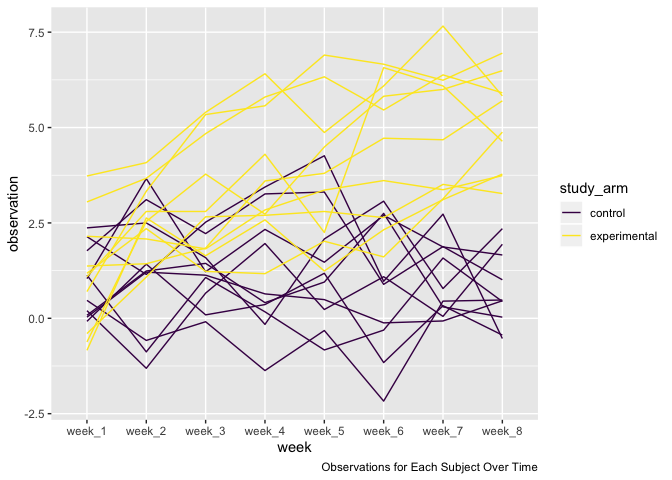
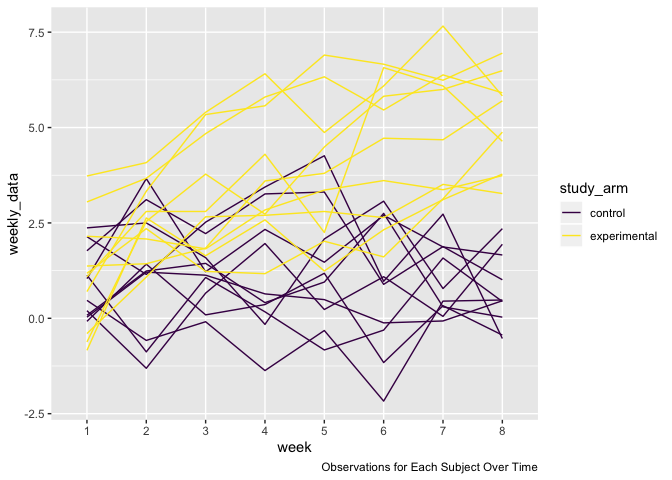
Generated a plot to display association between effect size and power.

diff --git a/p8105_hw5_niz2000.md b/p8105_hw5_niz2000.md
@@ -11,14 +11,14 @@ Nora Zakaria
 library(tidyverse)
 ```
 
-    ## ── Attaching packages ────────────────────────────────────────────────────────────────────── tidyverse 1.2.1 ──
+    ## ── Attaching packages ─────────────────────────────────────── tidyverse 1.2.1 ──
 
     ## ✔ ggplot2 3.2.1     ✔ purrr   0.3.2
     ## ✔ tibble  2.1.3     ✔ dplyr   0.8.3
     ## ✔ tidyr   1.0.0     ✔ stringr 1.4.0
     ## ✔ readr   1.3.1     ✔ forcats 0.4.0
 
-    ## ── Conflicts ───────────────────────────────────────────────────────────────────────── tidyverse_conflicts() ──
+    ## ── Conflicts ────────────────────────────────────────── tidyverse_conflicts() ──
     ## ✖ dplyr::filter() masks stats::filter()
     ## ✖ dplyr::lag()    masks stats::lag()
 
@@ -125,16 +125,18 @@ study_df = tibble(
     weekly_data = map(files, read_csv),
     observation = str_replace(observation, ".csv","")) %>%
   unnest() %>%
-  rename(participant = observation) %>%
+  rename(participant_id = observation) %>%
   mutate(
-    study_arm = if_else(participant %in% c("con_01", "con_02", "con_03", "con_04", "con_05",
-        "con_06", "con_07", "con_08", "con_09", "con_10"), "control", participant),
+    study_arm = if_else(participant_id %in% c("con_01", "con_02", "con_03", "con_04", "con_05",
+        "con_06", "con_07", "con_08", "con_09", "con_10"), "control", participant_id),
     study_arm = if_else(study_arm %in% c("exp_01", "exp_02", "exp_03", "exp_04", "exp_05",
         "exp_06", "exp_07", "exp_08", "exp_09", "exp_10"), "experimental", study_arm)) %>%
   pivot_longer(
     week_1:week_8,
     names_to = "week",
-    values_to = "observation") 
+    values_to = "weekly_data") %>%
+  mutate(week = str_replace(week, "week_", "")) %>%
+  select(-files)
 ```
 
     ## Parsed with column specification:
@@ -365,27 +367,32 @@ study_df = tibble(
 study_df
 ```
 
-    ## # A tibble: 160 x 5
-    ##    participant files             study_arm week   observation
-    ##    <chr>       <chr>             <chr>     <chr>        <dbl>
-    ##  1 con_01      ./data/con_01.csv control   week_1        0.2 
-    ##  2 con_01      ./data/con_01.csv control   week_2       -1.31
-    ##  3 con_01      ./data/con_01.csv control   week_3        0.66
-    ##  4 con_01      ./data/con_01.csv control   week_4        1.96
-    ##  5 con_01      ./data/con_01.csv control   week_5        0.23
-    ##  6 con_01      ./data/con_01.csv control   week_6        1.09
-    ##  7 con_01      ./data/con_01.csv control   week_7        0.05
-    ##  8 con_01      ./data/con_01.csv control   week_8        1.94
-    ##  9 con_02      ./data/con_02.csv control   week_1        1.13
-    ## 10 con_02      ./data/con_02.csv control   week_2       -0.88
+    ## # A tibble: 160 x 4
+    ##    participant_id study_arm week  weekly_data
+    ##    <chr>          <chr>     <chr>       <dbl>
+    ##  1 con_01         control   1            0.2 
+    ##  2 con_01         control   2           -1.31
+    ##  3 con_01         control   3            0.66
+    ##  4 con_01         control   4            1.96
+    ##  5 con_01         control   5            0.23
+    ##  6 con_01         control   6            1.09
+    ##  7 con_01         control   7            0.05
+    ##  8 con_01         control   8            1.94
+    ##  9 con_02         control   1            1.13
+    ## 10 con_02         control   2           -0.88
     ## # … with 150 more rows
+
+subject\_id = str\_replace(subject\_id, “.csv” , "“), week =
+str\_replace(week,”week\_“,”“), study\_arm =
+str\_replace(study\_arm,”con“,”control“), study\_arm =
+str\_replace(study\_arm,”exp“,”experimental"),
 
 ## Spaghetti Plot of Observations for Each Subject Over Time
 
 ``` r
 study_df %>% 
-  group_by(participant, week) %>% 
-  ggplot(aes(x = week, y = observation, group = participant, color = study_arm)) +
+  group_by(participant_id, week) %>% 
+  ggplot(aes(x = week, y = weekly_data, group = participant_id, color = study_arm)) +
   geom_line() +
   labs(caption = "Observations for Each Subject Over Time") + 
   viridis::scale_color_viridis(
@@ -393,3 +400,82 @@ study_df %>%
 ```
 
 ![](p8105_hw5_niz2000_files/figure-gfm/Spaghetti%20Plot-1.png)<!-- -->
+
+# Problem 3
+
+## Set the Regression Design Elements
+
+``` r
+linear_regression= function(n = 30, beta0 = 2, beta1 = 0) {
+  regression_data = tibble(
+    x = rnorm(n, mean = 1, sd = 1),
+    y = beta0 + beta1 * x + rnorm(n, 0, 50^0.5)
+  )
+  ls_fit = lm(y ~ x, data = regression_data) 
+  broom::tidy(ls_fit) %>%
+    filter(term == "x")
+}
+
+  regression_results = rerun(100, linear_regression()) %>%
+    bind_rows()
+  results = tibble(
+    beta1 = c(0, 1, 2, 3, 4, 5, 6)) %>%
+    mutate(
+      output_list = map(.x = beta1, ~rerun(100, linear_regression(beta1 = .x))),
+      estimate_dfs = map(output_list, bind_rows)) %>%
+    select(-output_list) %>%
+    unnest(estimate_dfs)
+results
+```
+
+    ## # A tibble: 700 x 6
+    ##    beta1 term  estimate std.error statistic p.value
+    ##    <dbl> <chr>    <dbl>     <dbl>     <dbl>   <dbl>
+    ##  1     0 x        0.792     1.60     0.496   0.624 
+    ##  2     0 x        3.68      1.47     2.51    0.0182
+    ##  3     0 x       -1.47      1.67    -0.883   0.385 
+    ##  4     0 x       -0.610     0.982   -0.621   0.539 
+    ##  5     0 x       -0.161     2.24    -0.0716  0.943 
+    ##  6     0 x        3.21      1.35     2.38    0.0245
+    ##  7     0 x       -2.37      1.40    -1.69    0.102 
+    ##  8     0 x       -1.32      1.11    -1.20    0.242 
+    ##  9     0 x       -0.993     1.29    -0.770   0.447 
+    ## 10     0 x        0.795     1.80     0.441   0.662 
+    ## # … with 690 more rows
+
+## Plot Showing the Proportion of Times the Null was Rejected
+
+``` r
+proportion_rejected = results %>%
+  mutate(rejection = cut(p.value, breaks=c(0, 0.05, Inf), 
+                         labels=c("Rejected", "Not_Rejected"))) %>%
+  group_by(beta1, rejection) %>%
+  summarise(count = n()) %>%
+  mutate(
+    proportion = count / sum(count),
+    as.character(beta1)) %>%
+  filter(rejection == "Rejected") %>%
+  ggplot(aes(x = beta1, y = proportion)) + 
+    geom_point() + 
+    geom_line(group = 1) +
+    labs(
+      title = "Association Between Effect Size and Power",
+      x = "Beta 1 True Value",
+      y = "Proportion of Null Rejection")
+proportion_rejected
+```
+
+![](p8105_hw5_niz2000_files/figure-gfm/Effect%20Size%20and%20Power-1.png)<!-- -->
+
+EEOP\_prevalence = Posture %\>%
+mutate(EEOP\_categorization=cut(eop\_size\_mm, breaks=c(-Inf, 10, Inf),
+labels=c(“No EEOP”, “EEOP”))) %\>% group\_by(EEOP\_categorization) %\>%
+summarise(n=n()) %\>% mutate(Prevalence = n / sum(n)) %\>%
+knitr::kable(format= ‘pandoc’, caption = “Table: EEOP Prevalence”)
+EEOP\_prevalence
+
+mutate( rejection = if\_else(p.value \< 0.05, “rejected”, p.value),
+rejection = if\_else(rejection \>= 0.05, “fail\_to\_reject”, rejection))
+%\>%
+
+## Plot Showing the Average Estimate and True Value of Beta 1
